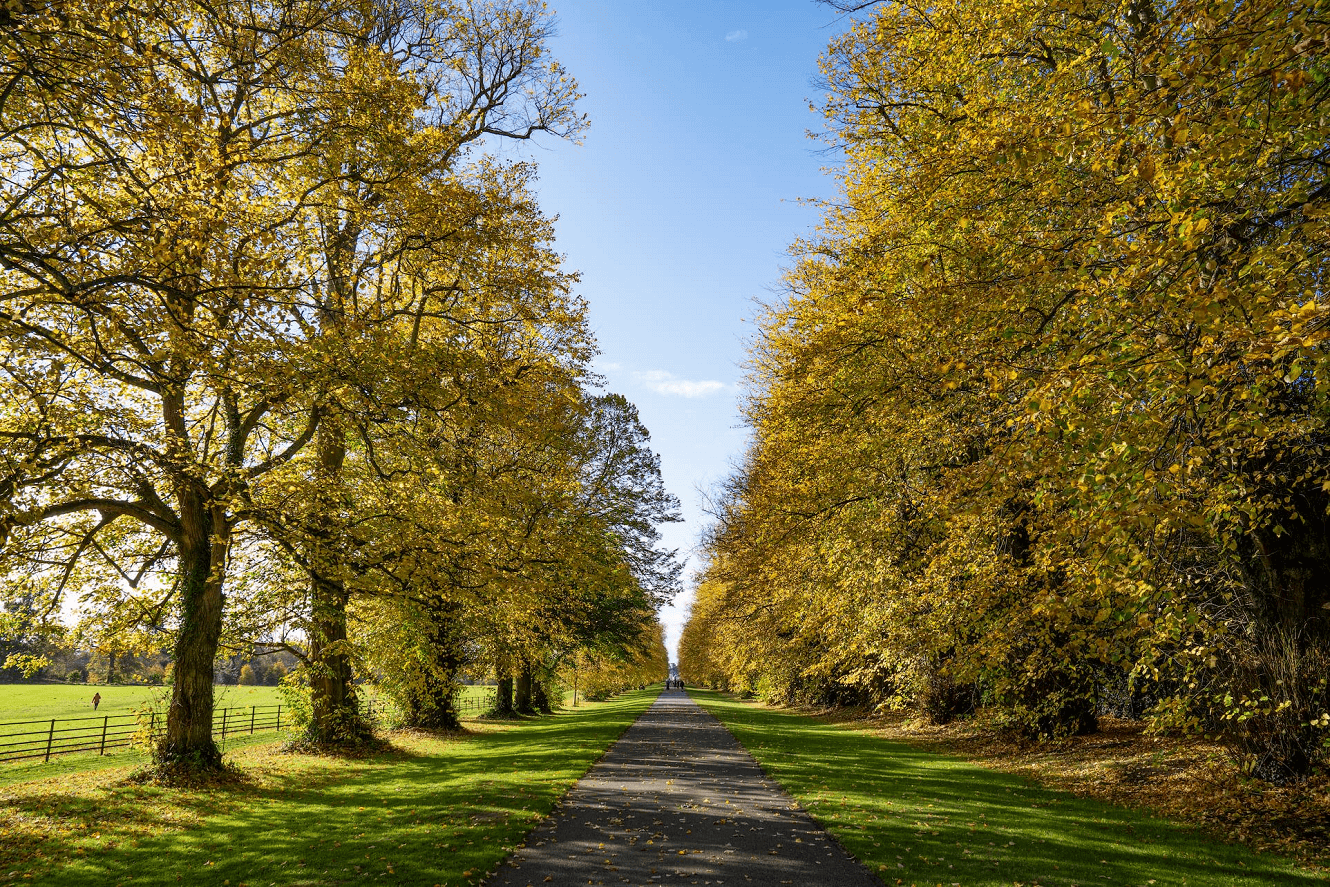
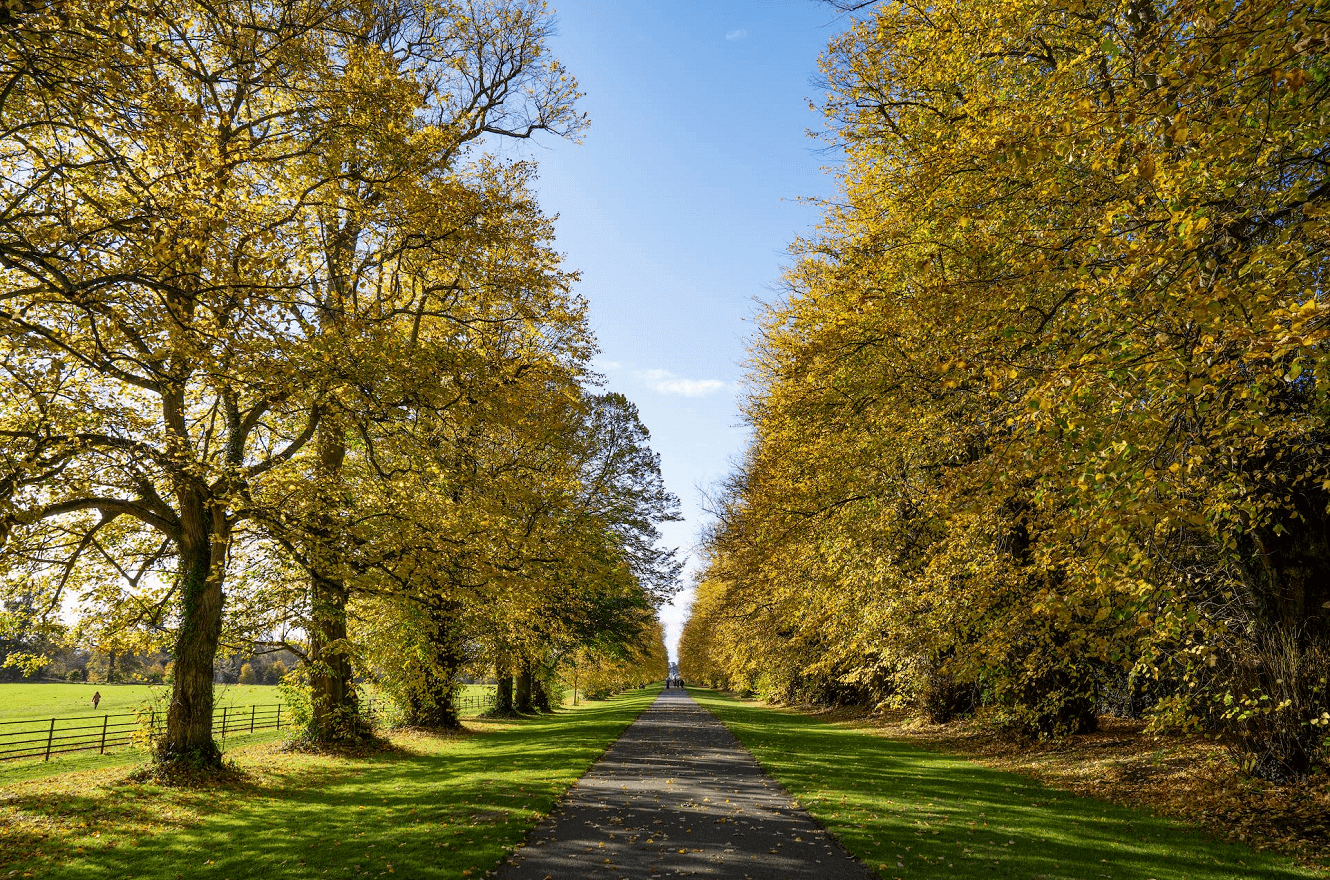
maint: Replace resized and compressed images for carousel

diff --git a/index.html b/index.html
@@ -46,13 +46,16 @@
             <div id="carouselControls" class="carousel slide" data-bs-ride="carousel">
                 <div class="carousel-inner">
                     <div class="carousel-item active">
-                    <img src="./assets/images/s1-castletown-house-wide3.png" class="d-block w-100 h-100" alt="...">
+                    <img src="./assets/images/s1-castletown-house-wide3-default.png" class="d-lg-none w-100 h-100" alt="..."> 
+                    <img src="./assets/images/s1-castletown-house-wide3.png" class="d.none d-lg-block w-100 h-100" alt="...">
                     </div>
                     <div class="carousel-item">
-                    <img src="./assets/images/s1-castletown-avenue.png" class="d-block w-100 h-100" alt="...">
+                    <img src="./assets/images/s1-castletown-avenue-default.png" class="d-lg-none w-100 h-100" alt="...">
+                    <img src="./assets/images/s1-castletown-avenue.png" class="d.none d-lg-block w-100 h-100" alt="...">
                     </div>
                     <div class="carousel-item">
-                    <img src="./assets/images/s1-oughterard.png" class="d-block w-100 h-100" alt="...">
+                    <img src="./assets/images/s1-conolly-folly-default.png" class="d-md-none w-100 h-100" alt="...">
+                    <img src="./assets/images/s1-conolly-folly.png" class="d.none d-md-block w-100 h-100" alt="...">
                     </div>
                 </div>
                 <button class="carousel-control-prev" type="button" data-bs-target="#carouselControls" data-bs-slide="prev">

diff --git a/assets/css/style.css b/assets/css/style.css
@@ -1,4 +1,6 @@
-
+html {
+  scroll-behavior: smooth;
+}
 
 /* ********************************************************* Navbar */
 
@@ -26,5 +28,10 @@ height:100%;
 background-repeat:no-repeat;
 background-size:cover;
 background-size: cover;
-background-position: center center;
+background-position: center auto;
+}
+
+.fitImage{
+    width: 100%;
+    box-sizing:border-box;
 }
